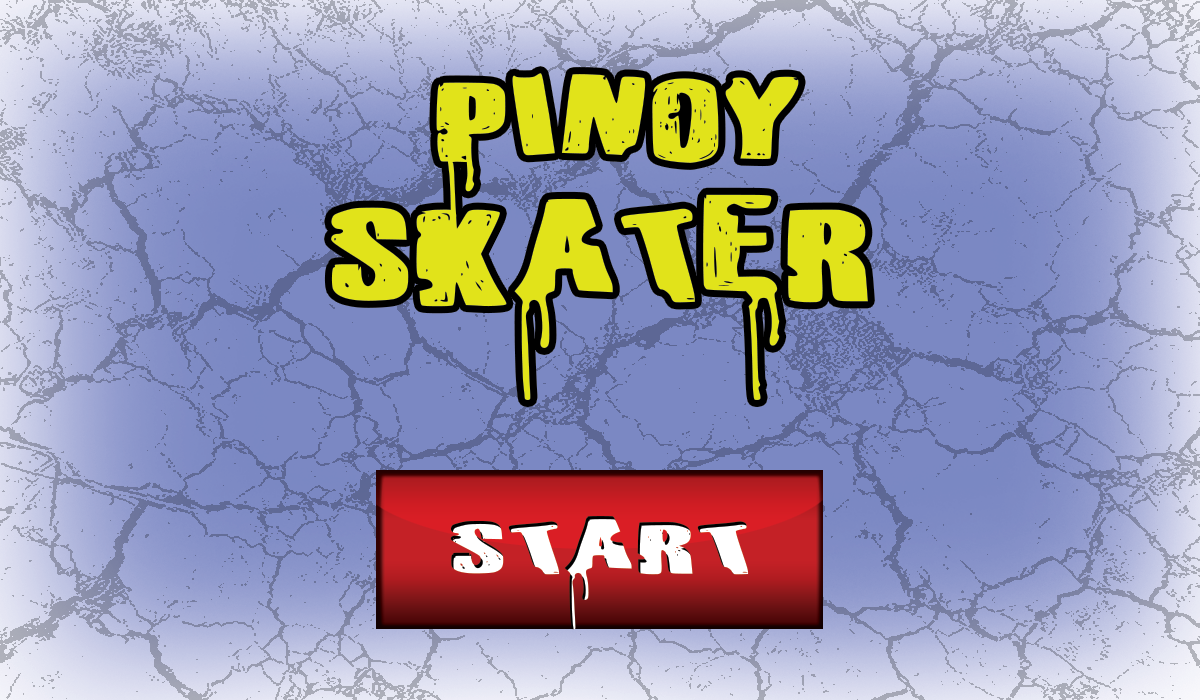
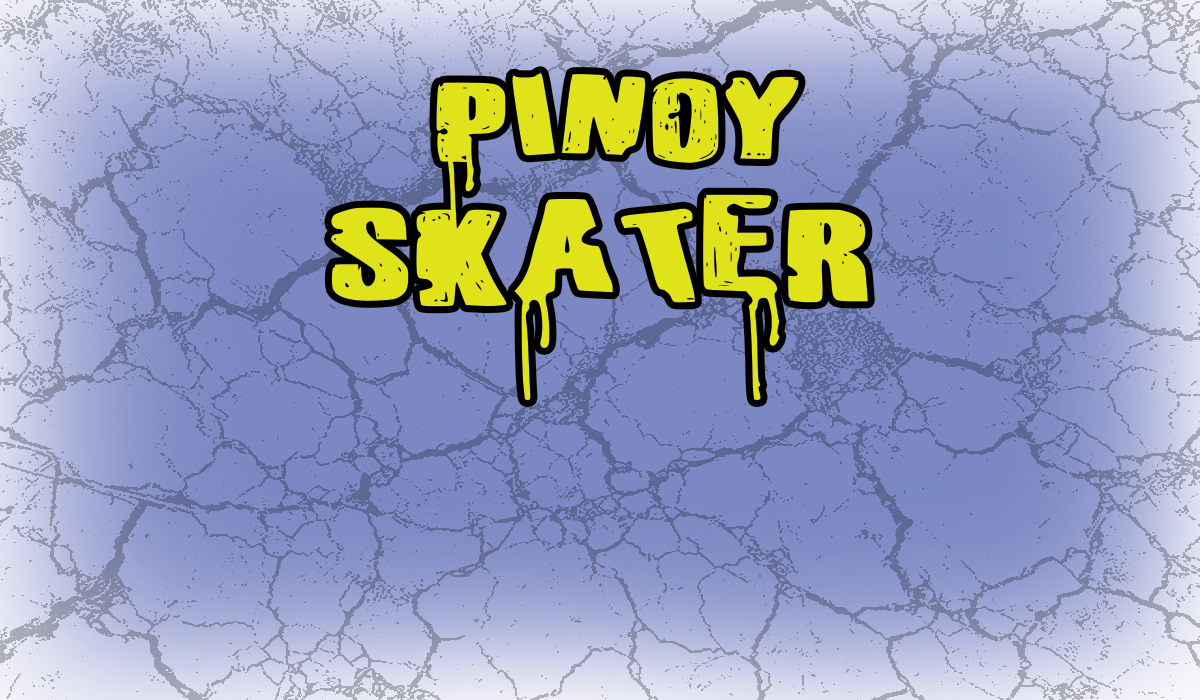
Updated graphics in start page

Changed region(s): [[0.3083, 0.66, 0.7092, 0.9]]

diff --git a/scenes.py b/scenes.py
@@ -332,7 +332,11 @@ class StartScene(Scene):
     super(StartScene, self).__init__()
 
     self.menu = Menu()
-    menu_items = [MenuItem("Start", self.switch_to_game_screen)]
+    start_button = ImageMenuItem("images/StartButton.png", self.switch_to_game_screen)
+    start_button.scale = 2
+    start_button.y = -200
+    menu_items = [start_button]
+
     self.menu.create_menu(menu_items)
     self.add(Sprite("images/StartScreenImage.png", anchor=(0,0)), z=0)
     self.add(self.menu, z=1)
